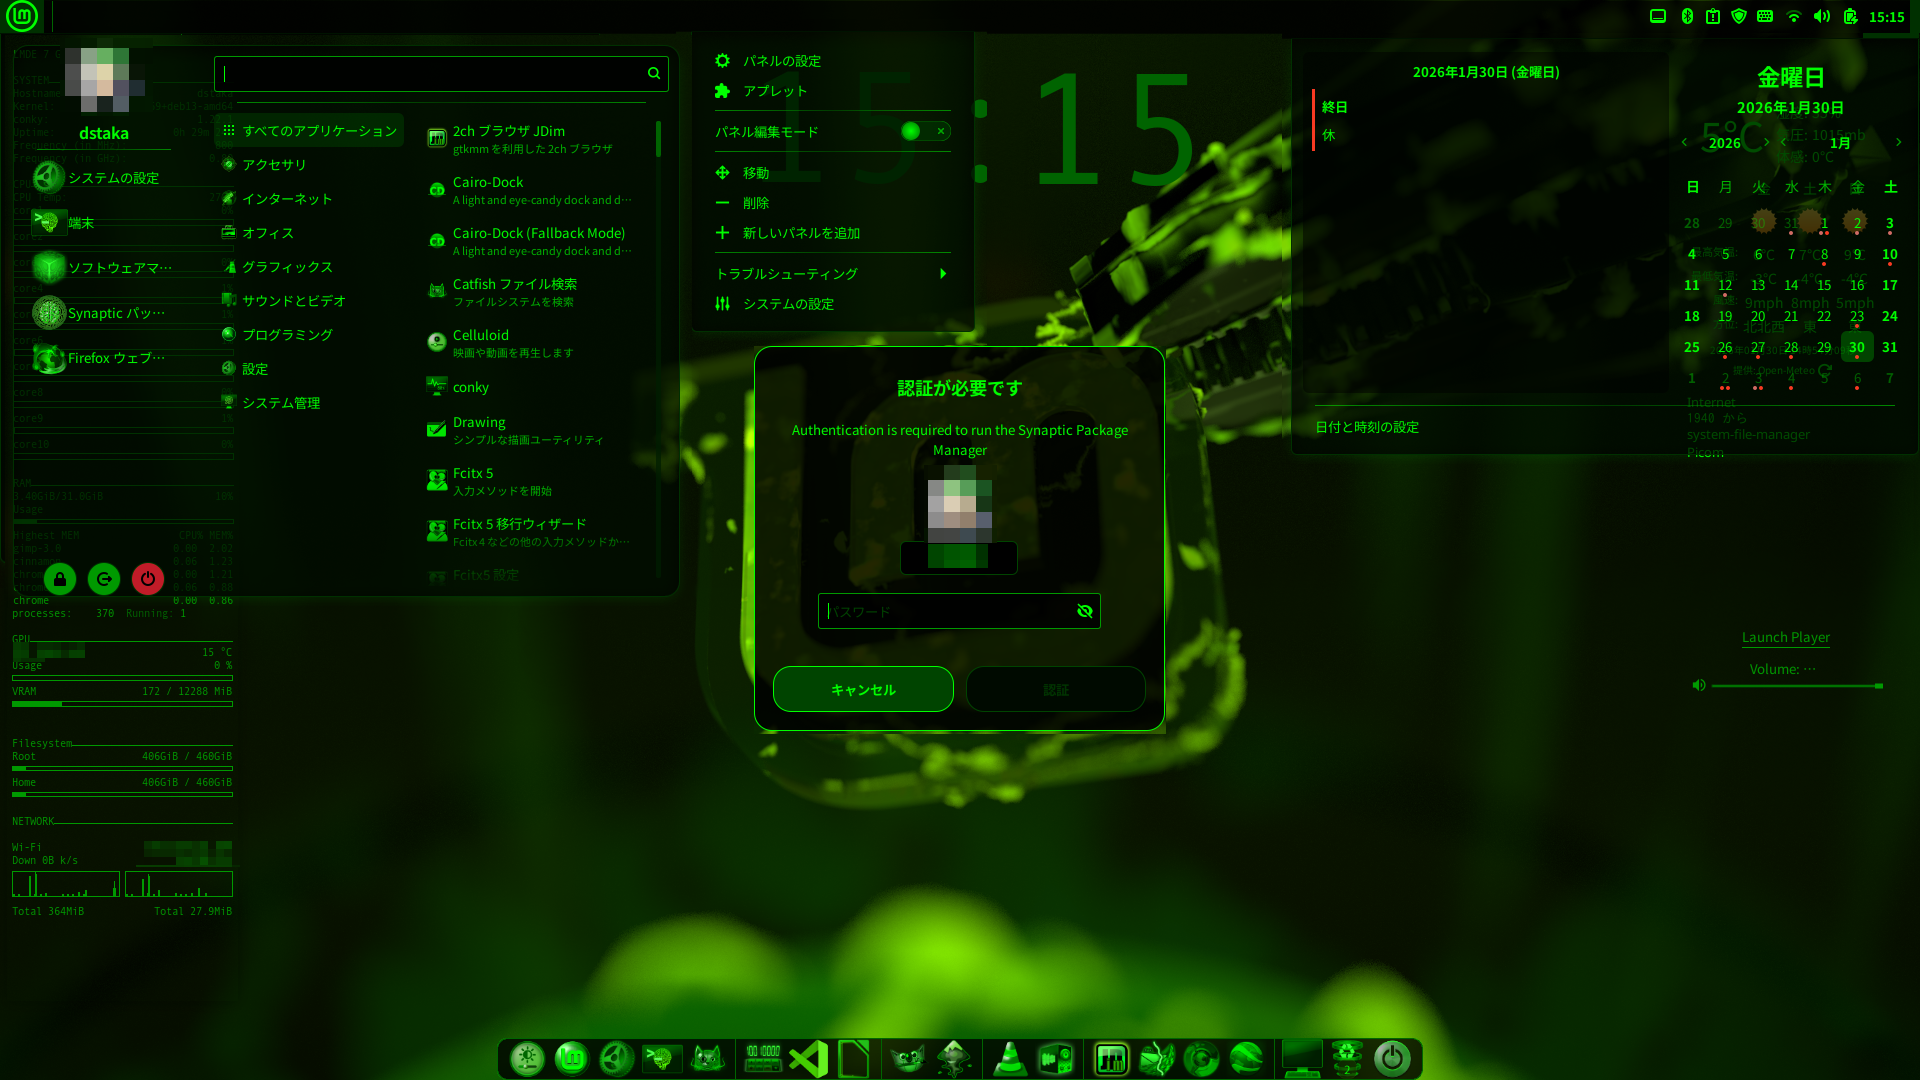
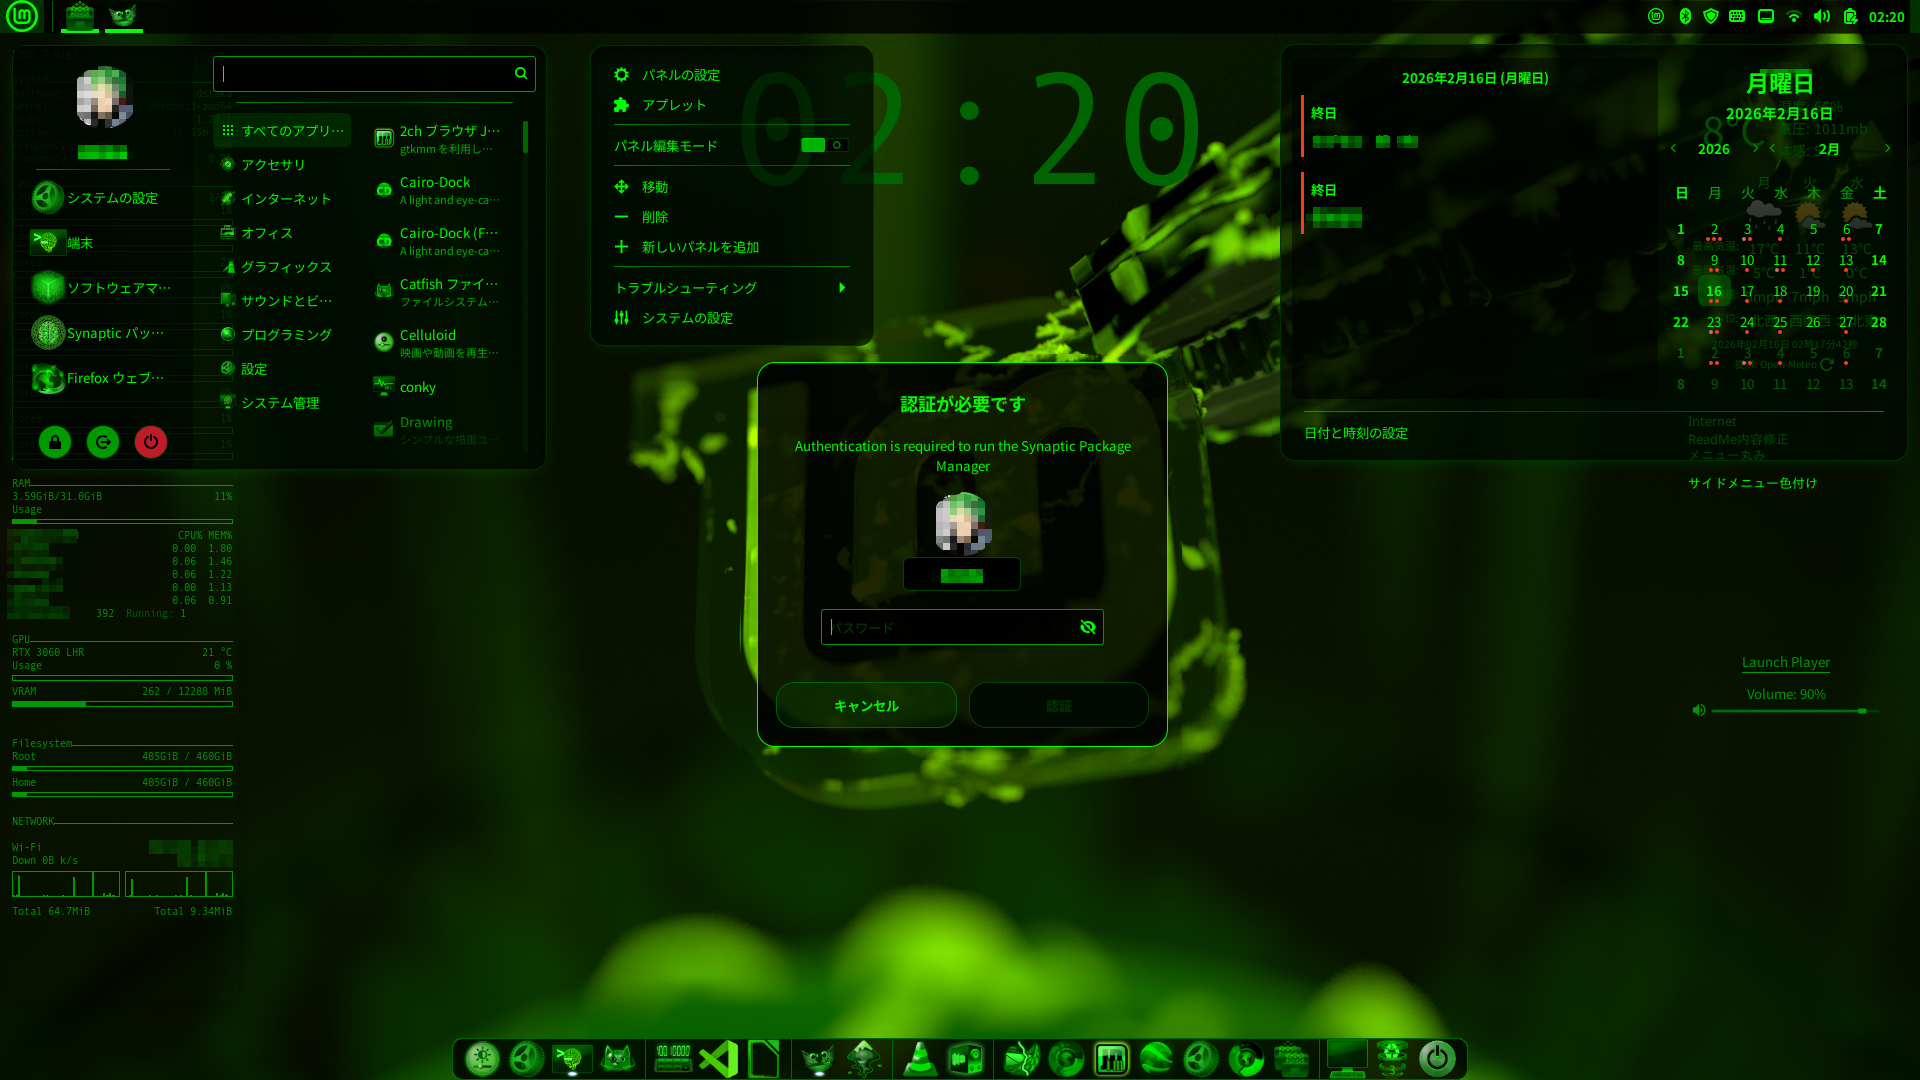
cinnamon-Hacker: minor adjustments for UI consistency

diff --git a/cinnamon-Hacker/files/cinnamon-Hacker/cinnamon/cinnamon.css b/cinnamon-Hacker/files/cinnamon-Hacker/cinnamon/cinnamon.css
@@ -1136,6 +1136,7 @@ StScrollBar {
 
 .appmenu-system-button {
   padding: 8.4px;
+  margin: 5px 2px 10px 2px; 
   border: 1px solid #003000;
   border-radius: 9999px;
   background-color: #003000; }
@@ -1189,8 +1190,8 @@ StScrollBar {
 
 .appmenu-sidebar,
 .appmenu-navigation-grid {
-    padding-top: 15px;
-    background-color: rgba(0, 0, 0, 0.5) !important; }
+    padding-top: 20px;
+    background-color: rgba(0, 5, 0, 0.5) !important; }
 .appmenu-navigation-grid-item:hover,
 .appmenu-navigation-grid-item:selected {
     background-color: #00ff00;
